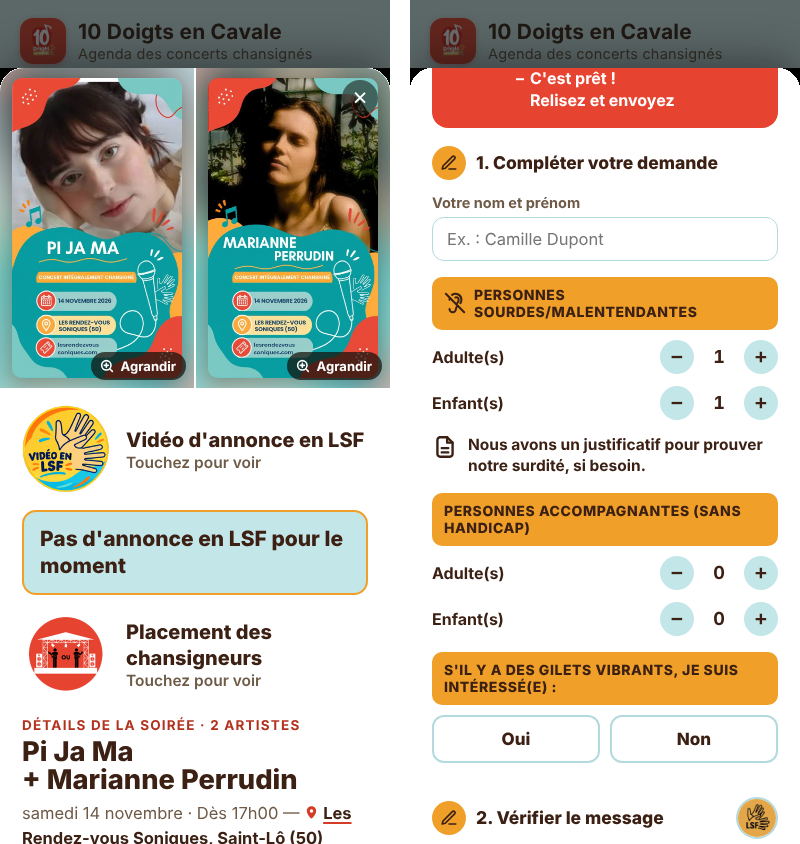
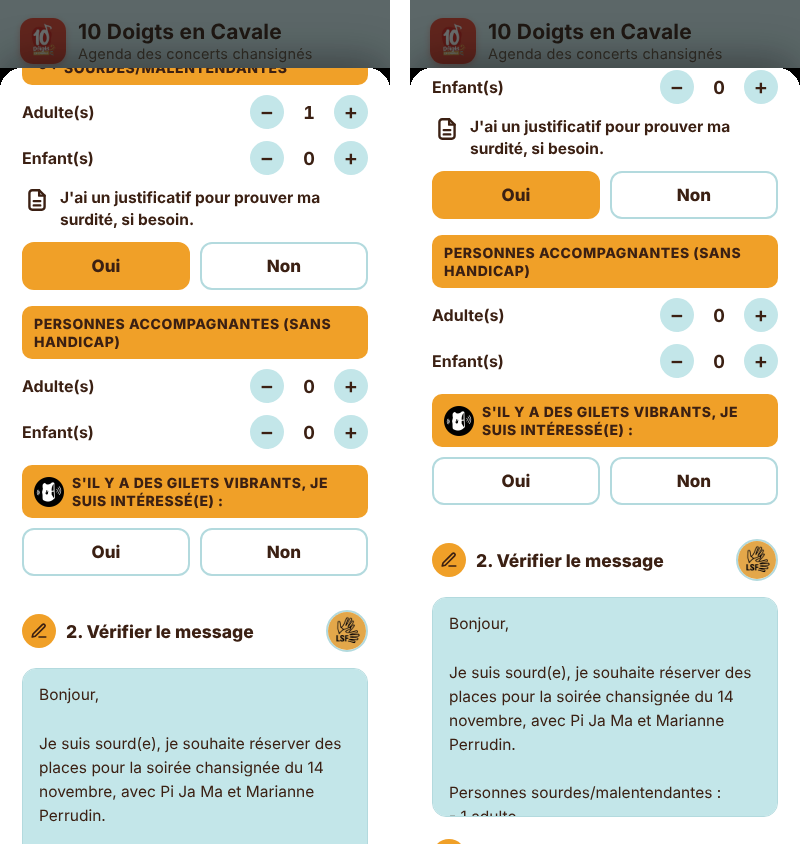
Add files via upload

diff --git a/index.html b/index.html
@@ -584,6 +584,10 @@
   @media (max-width:350px){.stepper-group-title{font-size:12px;letter-spacing:0;padding:9px 10px;gap:6px;}}
   .stepper-group-title .ear-off{width:22px;height:22px;flex:none;}
   .proof-note{display:flex;align-items:flex-start;gap:10px;margin:14px 0 0;font-size:15.5px;font-weight:700;color:var(--ink);line-height:1.4;}
+  .proof-group{border:0;padding:0;min-width:0;margin:0;}
+  .proof-group .vest-options{margin:12px 0 0;}
+  .vest-title-in{display:flex;align-items:center;gap:8px;}
+  .vest-ic{width:30px;height:30px;flex:none;display:block;}
   .proof-note svg{width:26px;height:26px;flex:none;color:var(--accent-2-ink,var(--accent-2));}
   .vest-group{border:0;padding:0;min-width:0;margin-left:0;margin-right:0;}
   .vest-group legend{padding:9px 12px;display:block;width:100%;box-sizing:border-box;}
@@ -1753,7 +1757,7 @@ async function copyText(text){
 
 /* Message pré-rempli, pensé pour les personnes sourdes qui ont du mal
    à rédiger : il suffit de le copier et de l'envoyer tel quel. */
-function buildReservationMessage(artist, pshAdults, pshChildren, companionAdults, companionChildren, name, multiDate, vest){
+function buildReservationMessage(artist, pshAdults, pshChildren, companionAdults, companionChildren, name, multiDate, vest, proof){
   const pa = Math.max(0, pshAdults);
   const pc = Math.max(0, pshChildren);
   const ca = Math.max(0, companionAdults);
@@ -1768,8 +1772,9 @@ function buildReservationMessage(artist, pshAdults, pshChildren, companionAdults
   if(ca > 0) companionLines.push(`- ${ca} adulte${ca > 1 ? "s" : ""}`);
   if(cc > 0) companionLines.push(`- ${cc} enfant${cc > 1 ? "s" : ""}`);
 
-  // Justificatif de surdité : phrase ajoutée automatiquement (adaptée au nombre de personnes).
-  const proofLine = proofSentence(pa + pc);
+  // Justificatif de surdité : phrase ajoutée automatiquement (adaptée au nombre de personnes),
+  // sauf si la personne répond « Non ».
+  const proofLine = (proof && proof.want === "no") ? "" : proofSentence(pa + pc);
   const pshBlock = pshLines.length
     ? `\nPersonnes sourdes/malentendantes :\n${pshLines.join("\n")}${proofLine ? `\n${proofLine}` : ""}\n`
     : (proofLine ? `\n${proofLine}\n` : "");
@@ -1985,7 +1990,13 @@ function openModal(id){
             <button type="button" id="psh-children-plus" aria-label="Plus d'enfants en situation de handicap">+</button>
           </div>
         </div>
-        <p class="proof-note">${iconDoc}<span id="proof-text">${proofSentence(0)}</span></p>
+        <fieldset class="proof-group">
+          <legend class="proof-note">${iconDoc}<span id="proof-text">${proofSentence(0)}</span></legend>
+          <div class="vest-options">
+            <label class="vest-option"><input type="radio" name="proof-want" id="proof-yes" value="yes"><span>Oui</span></label>
+            <label class="vest-option"><input type="radio" name="proof-want" id="proof-no" value="no"><span>Non</span></label>
+          </div>
+        </fieldset>
       </div>
 
       <div class="stepper-group">
@@ -2009,7 +2020,7 @@ function openModal(id){
       </div>
 
       <fieldset class="stepper-group vest-group">
-        <legend class="stepper-group-title">S'il y a des gilets vibrants, je suis intéressé(e) :</legend>
+        <legend class="stepper-group-title"><span class="vest-title-in"><img class="vest-ic" src="vest-icon.png" alt=""><span>S'il y a des gilets vibrants, je suis intéressé(e) :</span></span></legend>
         <div class="vest-options">
           <label class="vest-option"><input type="radio" name="vest-want" id="vest-yes" value="yes"><span>Oui</span></label>
           <label class="vest-option"><input type="radio" name="vest-want" id="vest-no" value="no"><span>Non</span></label>
@@ -2101,6 +2112,7 @@ function openModal(id){
 
     const counts = { pshAdults: 0, pshChildren: 0, compAdults: 0, compChildren: 0 };
     const vest = { want: null, count: "" };
+    const proof = { want: null };
     const nameInput = document.getElementById("msg-name");
     const preview = document.getElementById("message-preview");
     const copyMsgBtn = mailAddress ? null : document.getElementById("copy-message-btn");
@@ -2117,7 +2129,7 @@ function openModal(id){
       preview.textContent = buildReservationMessage(
         e.artistsAnd, counts.pshAdults, counts.pshChildren, counts.compAdults, counts.compChildren, nameInput.value,
         e.multi ? `${dt.getDate()} ${MOIS[dt.getMonth()].toLowerCase()}` : null,
-        vest
+        vest, proof
       );
       // Bouton « Envoyer le mail » : ouvre l'appli mail avec destinataire,
       // objet et message déjà remplis (mis à jour à chaque modification).
@@ -2156,6 +2168,10 @@ function openModal(id){
       refreshMessage();
     }));
     vestCountInput.addEventListener("input", () => { vest.count = vestCountInput.value; refreshMessage(); });
+    document.querySelectorAll('input[name="proof-want"]').forEach(r => r.addEventListener("change", () => {
+      proof.want = r.value;
+      refreshMessage();
+    }));
     if(copyMsgBtn){
       copyMsgBtn.addEventListener("click", async () => {
         const ok = await copyText(preview.textContent);
